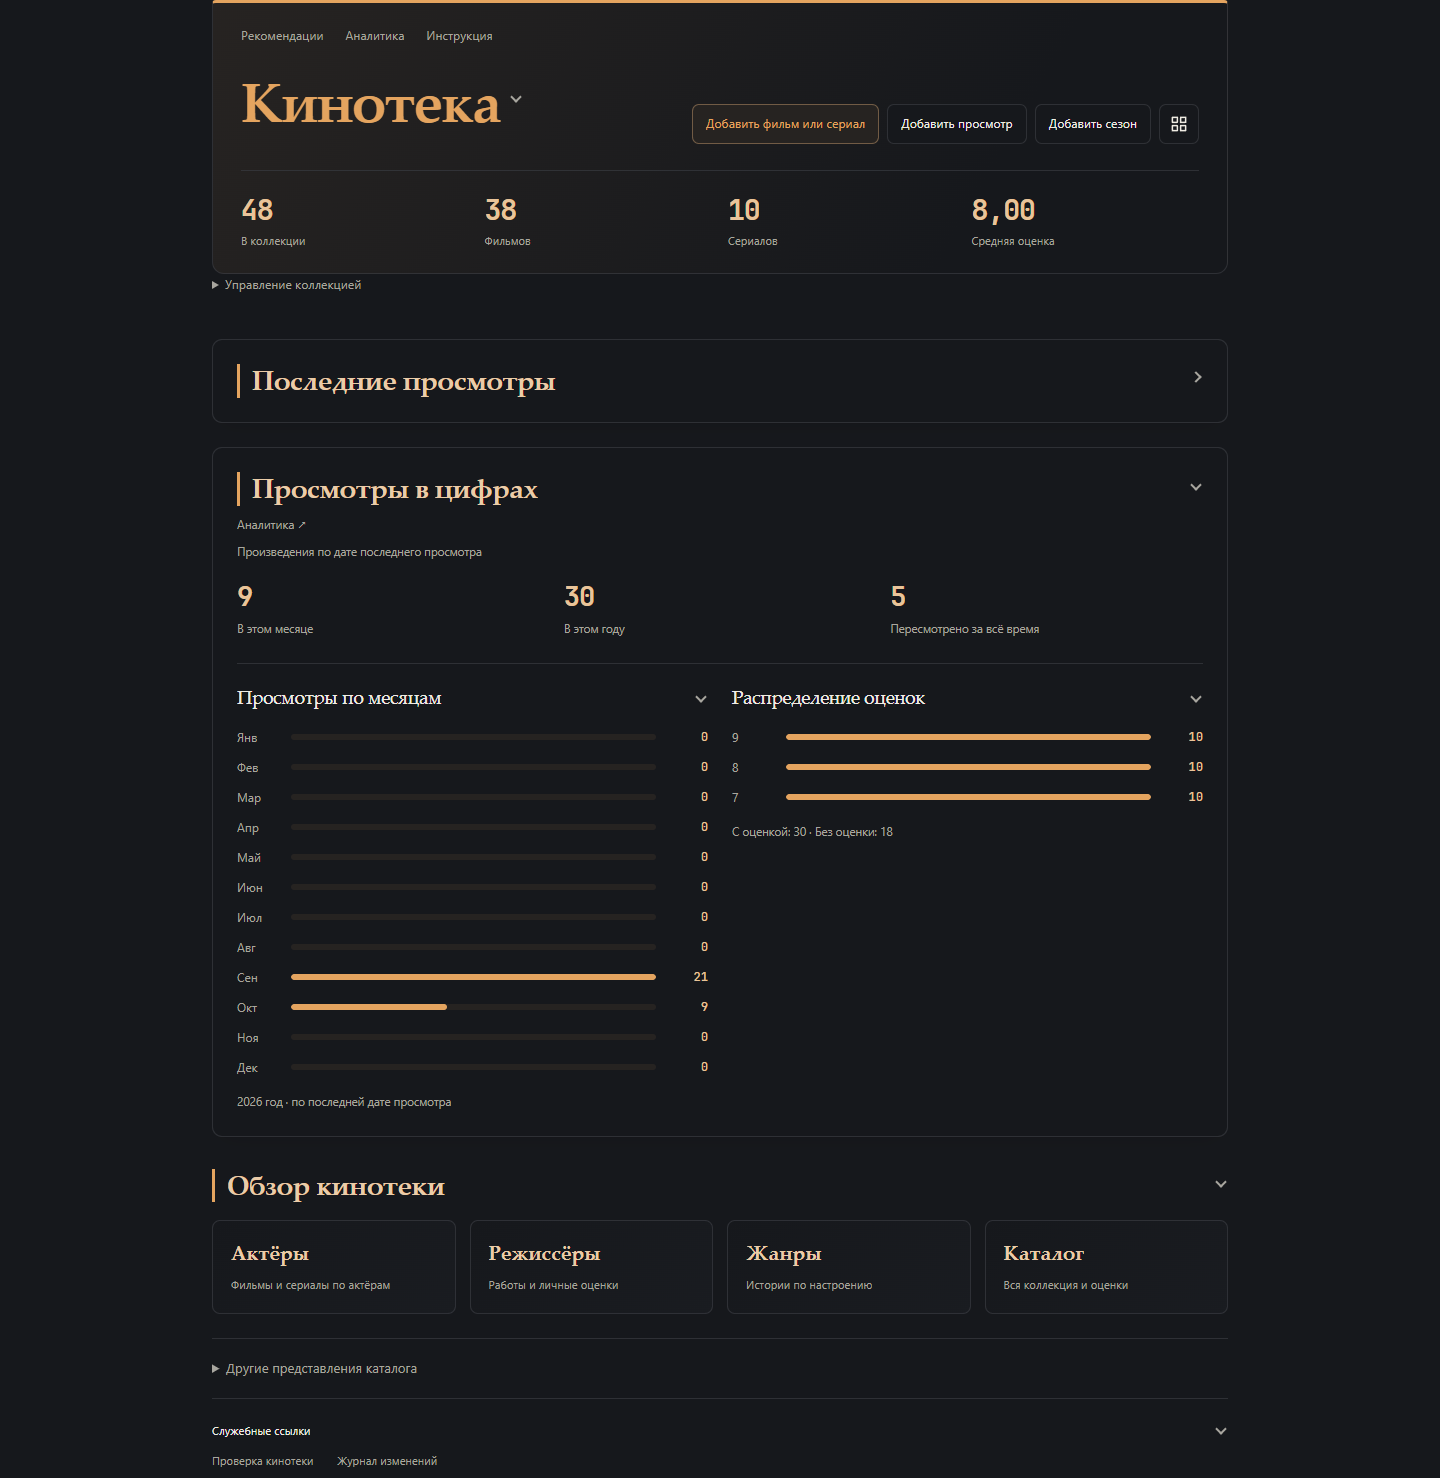
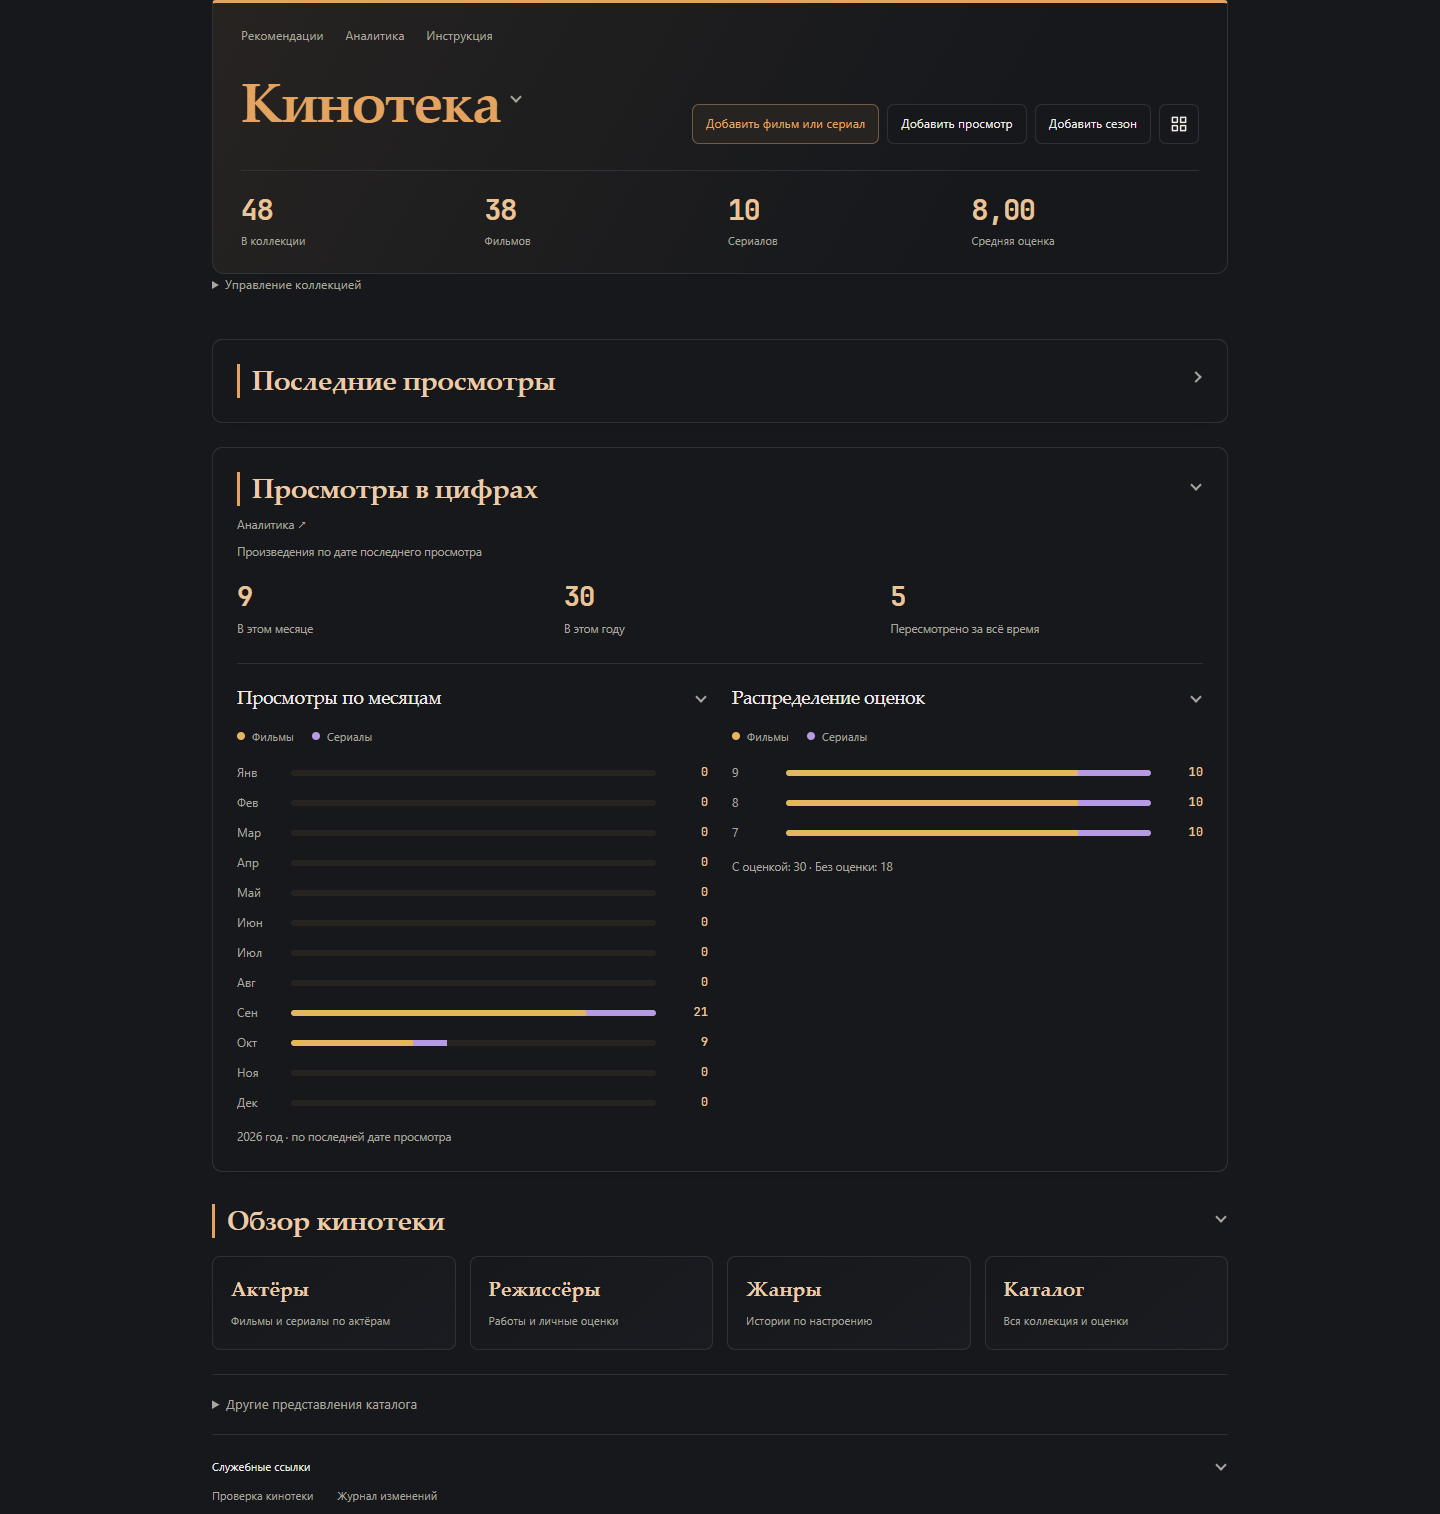
vault backup: 2026-10-09 22:39:07

diff --git a/Кино/_system/kino_home.js b/Кино/_system/kino_home.js
@@ -229,6 +229,12 @@ module.exports = async ({ dv, app, obsidian = {} }) => {
             const box = el(charts, 'section', 'kino-home-chart');
             const heading = el(box, 'h3', '', title);
             const body = el(box, 'div', 'kino-home-chart-body');
+            const legend = el(body, 'div', 'kino-home-chart-legend');
+            for (const [kind, label] of [['movies', 'Фильмы'], ['serials', 'Сериалы']]) {
+                const entry = el(legend, 'span', 'kino-home-chart-key');
+                el(entry, 'span', 'kino-home-chart-dot is-' + kind).setAttribute('aria-hidden', 'true');
+                el(entry, 'span', '', label);
+            }
             const list = el(body, 'div', 'kino-home-chart-list'); list.setAttribute('role', 'list');
             foldBlock(box, heading, [body], key, title);
             return { list, body };
@@ -237,15 +243,26 @@ module.exports = async ({ dv, app, obsidian = {} }) => {
         const monthCaption = el(months.body, 'p', 'kino-home-caption');
         const ratings = chart('Распределение оценок', 'ratings');
         const ratingCaption = el(ratings.body, 'p', 'kino-home-caption');
+        function splitTypes(items) {
+            // A note bearing both tags is counted once, as a serial.
+            return [items.filter(item => !item.serial).length, items.filter(item => item.serial).length];
+        }
         function drawChart(list, entries, empty) {
             list.replaceChildren();
             if (!entries.length) { el(list, 'p', 'kino-home-empty', empty); return; }
-            const max = Math.max(1, ...entries.map(entry => entry[1]));
-            for (const [label, count] of entries) {
+            const max = Math.max(1, ...entries.map(entry => entry[1] + entry[2]));
+            for (const [label, movies, serials] of entries) {
+                const count = movies + serials;
                 const row = el(list, 'div', 'kino-home-chart-row'); row.setAttribute('role', 'listitem');
+                row.dataset.movies = movies; row.dataset.serials = serials;
+                row.title = label + ': фильмы — ' + movies + ', сериалы — ' + serials + ', всего — ' + count;
+                row.setAttribute('aria-label', row.title);
                 el(row, 'span', 'kino-home-chart-label', label);
                 const track = el(row, 'span', 'kino-home-chart-track'); track.setAttribute('aria-hidden', 'true');
-                const bar = el(track, 'span', 'kino-home-chart-bar'); bar.style.width = (count / max * 100) + '%';
+                for (const [kind, value] of [['movies', movies], ['serials', serials]]) {
+                    const bar = el(track, 'span', 'kino-home-chart-bar is-' + kind);
+                    bar.style.width = (value / max * 100) + '%';
+                }
                 el(row, 'strong', 'kino-home-chart-count', count);
             }
         }
@@ -262,11 +279,15 @@ module.exports = async ({ dv, app, obsidian = {} }) => {
             };
             for (const [key, node] of metricValues) node.textContent = String(periods[key]);
             const monthNames = ['Янв', 'Фев', 'Мар', 'Апр', 'Май', 'Июн', 'Июл', 'Авг', 'Сен', 'Окт', 'Ноя', 'Дек'];
-            drawChart(months.list, monthNames.map((name, index) => [name, items.filter(item => item.watched?.year === now.getFullYear() && item.watched.month === index + 1).length]));
+            drawChart(months.list, monthNames.map((name, index) => [name, ...splitTypes(items.filter(item => item.watched?.year === now.getFullYear() && item.watched.month === index + 1))]));
             monthCaption.textContent = now.getFullYear() + ' год · по последней дате просмотра';
             const counts = new Map();
-            for (const score of scores) counts.set(score, (counts.get(score) || 0) + 1);
-            drawChart(ratings.list, [...counts].sort((a, b) => b[0] - a[0]).map(([score, count]) => [String(score).replace('.', ','), count]), 'Пока нет оценок.');
+            for (const item of items) {
+                if (item.score == null) continue;
+                if (!counts.has(item.score)) counts.set(item.score, [0, 0]);
+                counts.get(item.score)[item.serial ? 1 : 0]++;
+            }
+            drawChart(ratings.list, [...counts].sort((a, b) => b[0] - a[0]).map(([score, counts]) => [String(score).replace('.', ','), ...counts]), 'Пока нет оценок.');
             ratingCaption.textContent = 'С оценкой: ' + scores.length + ' · Без оценки: ' + (items.length - scores.length);
         }
         draw();

diff --git a/Кино/_system/kino-home.css b/Кино/_system/kino-home.css
@@ -139,8 +139,15 @@
 .kino-home-ui.kino-home-ui .kino-home-chart-list { display: grid; gap: 9px; }
 .kino-home-ui.kino-home-ui .kino-home-chart-row { display: grid; grid-template-columns: 42px minmax(0,1fr) 40px; align-items: center; gap: 12px; min-width: 0; font-size: .75em; }
 .kino-home-ui.kino-home-ui .kino-home-chart-label { color: var(--text-muted); overflow-wrap: anywhere; }
-.kino-home-ui.kino-home-ui .kino-home-chart-track { display: block; height: 6px; overflow: hidden; border-radius: 4px; background: var(--home-tint); }
-.kino-home-ui.kino-home-ui .kino-home-chart-bar { display: block; height: 100%; border-radius: inherit; background: var(--home-accent); }
+.kino-home-ui.kino-home-ui .kino-home-chart-track { display: flex; height: 6px; overflow: hidden; border-radius: 4px; background: var(--home-tint); }
+.kino-home-ui.kino-home-ui .kino-home-chart-bar { display: block; flex: 0 0 auto; height: 100%; background: var(--home-movies); }
 .kino-home-ui.kino-home-ui .kino-home-chart-count { text-align: right; color: var(--home-number-color); font: 500 1em/1.4 var(--home-numbers); font-variant-numeric: tabular-nums; }
 .kino-home-ui.kino-home-ui .kino-home-chart-body>.kino-home-caption { margin-top: 14px; }
 @container kino-home (max-width: 600px) { .kino-home-ui.kino-home-ui .kino-home-charts { grid-template-columns: minmax(0,1fr); } }
+
+.kino-home-ui.kino-home-ui { --home-movies: #e4b65f; --home-serials: #b69ae4; }
+.kino-home-ui.kino-home-ui .kino-home-chart-legend { display: flex; flex-wrap: wrap; gap: 8px 18px; margin-bottom: 16px; color: var(--text-muted); font-size: .7em; }
+.kino-home-ui.kino-home-ui .kino-home-chart-key { display: inline-flex; align-items: center; gap: 7px; }
+.kino-home-ui.kino-home-ui .kino-home-chart-dot { display: inline-block; width: 8px; height: 8px; border-radius: 50%; flex: 0 0 8px; }
+.kino-home-ui.kino-home-ui :is(.kino-home-chart-bar,.kino-home-chart-dot).is-movies { background: var(--home-movies); }
+.kino-home-ui.kino-home-ui :is(.kino-home-chart-bar,.kino-home-chart-dot).is-serials { background: var(--home-serials); }

diff --git a/Кино/_system/Редизайн — прогресс.md b/Кино/_system/Редизайн — прогресс.md
@@ -5,6 +5,13 @@ obsidianUIMode: preview
 
 Обновлено: 09.10.2026. **Главная кинотеки по образцу Книг завершена.** Основной редизайн, компактные строки, шапка и выбор года тоже завершены; массовые миграции повторно не выполнять. При «продолжай» сначала прочитать этот файл и актуальный запрос.
 
+## Двухцветные шкалы статистики — 09.10.2026
+
+- **Запрос завершён:** шкалы месяцев и распределения оценок теперь состоят из двух сегментов: золотой #e4b65f — фильмы, сиреневый #b69ae4 — сериалы. В каждом разделе добавлена легенда; при наведении показаны числа отдельно по типам и общий итог, те же данные доступны через aria-label.
+- Длины сегментов пропорциональны количествам на общей шкале; итог справа сохранён. Заметка с двумя тегами movies/serial считается один раз как сериал, чтобы не удваивать итог. Данные заметок не менялись.
+- Проверено **12/12**: home-ui 11/11 и главная design-ui 1/1. Добавлены проверки точных сегментов, их ширины и вычисленных цветов, распределения дробных/нулевых оценок и отсутствия двойного счёта. Телефонное превью просмотрено.
+- Изменены kino_home.js, kino-home.css и существующий home-ui.test.cjs. Резервная копия: redesign-backups/home-stats-colors-20261009/before.zip.
+
 ## Просмотры в цифрах: статистика вместо сериалов — 09.10.2026
 
 - **Запрос завершён:** список «Последние сериалы» удалён из блока «Просмотры в цифрах». Вместо него добавлены два сворачиваемых раздела: просмотры по 12 месяцам текущего года и распределение точных личных оценок, включая дробные и нулевые. Счётчики месяца, года и пересмотренных произведений сохранены.
